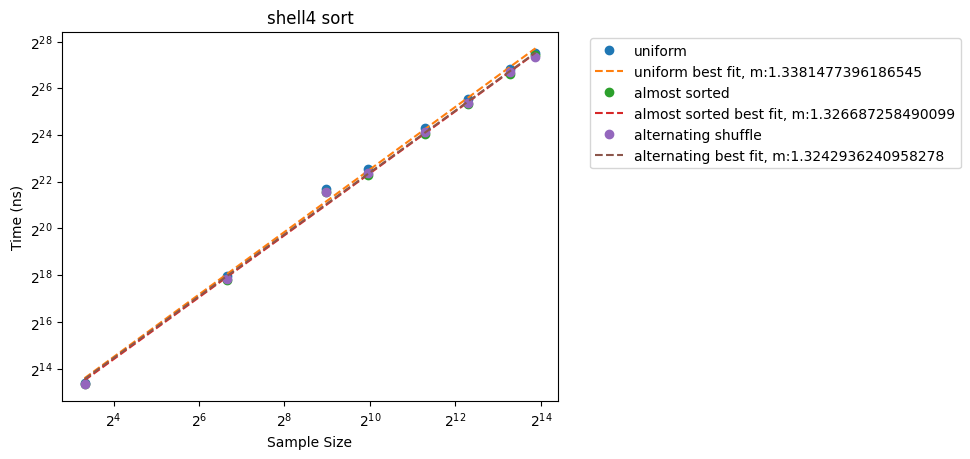
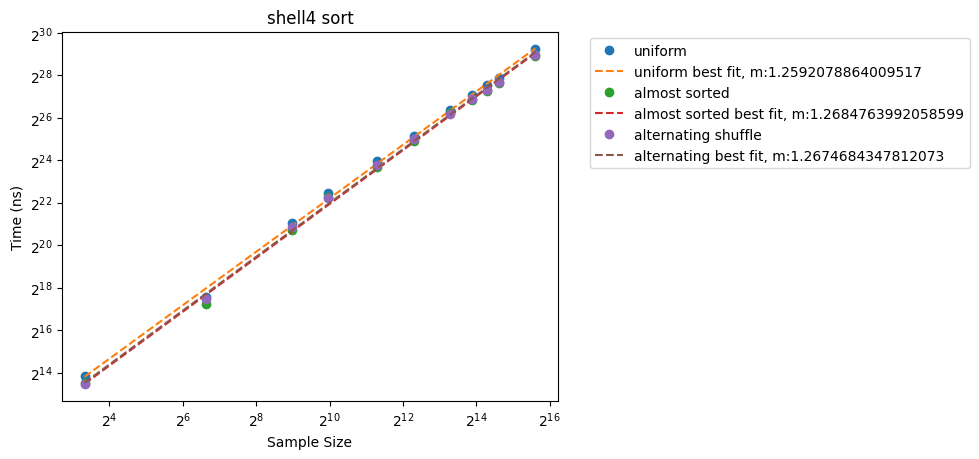
update

diff --git a/src/components/Navbar/Navlist.svelte b/src/components/Navbar/Navlist.svelte
@@ -3,8 +3,10 @@
 	import { onMount } from "svelte";
 	import { AA_Old_Code } from "../../data/AA_Old_Code.js";
 import { CS162_notes1 } from "../../data/CS162_notes1.js";
+import { CS165_P1_Report } from "../../data/CS165_P1_Report.js";
 import { CS165_prjct1 } from "../../data/CS165_prjct1.js";
 import { Testing } from "../../data/Testing.js";
+import { Cs121-quiz1 } from "../../data/Cs121-quiz1.js";
 import { Cs165_graphs } from "../../data/Cs165_graphs.js";
 import { Inf131_notes } from "../../data/Inf131_notes.js";
 	
@@ -14,7 +16,7 @@ import { Inf131_notes } from "../../data/Inf131_notes.js";
 	let headers: string[] = [];
 	onMount(() => {
 		switch (page.toLowerCase()) {
-			case 'aa_old_code': headers=AA_Old_Code; break;case 'cs162_notes1': headers=CS162_notes1; break;case 'cs165_prjct1': headers=CS165_prjct1; break;case 'testing': headers=Testing; break;case 'cs165_graphs': headers=Cs165_graphs; break;case 'inf131_notes': headers=Inf131_notes; break;
+			case 'aa_old_code': headers=AA_Old_Code; break;case 'cs162_notes1': headers=CS162_notes1; break;case 'cs165_p1_report': headers=CS165_P1_Report; break;case 'cs165_prjct1': headers=CS165_prjct1; break;case 'testing': headers=Testing; break;case 'cs121-quiz1': headers=Cs121-quiz1; break;case 'cs165_graphs': headers=Cs165_graphs; break;case 'inf131_notes': headers=Inf131_notes; break;
 			default:
 				headers = [];
 				break;

diff --git a/src/components/Navbar/HomeNav.svelte b/src/components/Navbar/HomeNav.svelte
@@ -1,7 +1,7 @@
 
 	<script>
 	import List from "./List.svelte";
-	const routes = ["AA_Old_Code", "CS162_notes1", "CS165_prjct1", "Testing", "cs165_graphs", "inf131_notes"];
+	const routes = ["AA_Old_Code", "CS162_notes1", "CS165_P1_Report", "CS165_prjct1", "Testing", "cs121-quiz1", "cs165_graphs", "inf131_notes"];
 	</script>
 	<List lists={routes} />
 	

diff --git a/src/data/CS165_P1_Report.js b/src/data/CS165_P1_Report.js
@@ -1,0 +1,7 @@
+export const CS165_P1_Report = [
+  "**4. Results and Analysis**",
+  "**4.1 Insertion Sort**",
+  "**4.2 Shellsort Variants**",
+  "**4.3 Tim-sort**",
+  "**Summary of Experimental Slopes**",
+];

diff --git a/src/data/Cs121-quiz1.js b/src/data/Cs121-quiz1.js
@@ -1,0 +1,2 @@
+export const Cs121-quiz1 = [
+];

diff --git a/src/pages/ducks/CS165_P1_Report.md b/src/pages/ducks/CS165_P1_Report.md
@@ -1,0 +1,108 @@
+---
+layout: "../../layouts/LayoutSingle.astro"
+title: CS165_P1_Report
+---
+
+Awesome — based on all your provided plots and our outline, here’s a **draft of the Results & Analysis section** for your report:
+
+---
+
+# **4. Results and Analysis**
+
+In this section, we present and analyze the empirical performance of the implemented sorting algorithms. Each algorithm was tested on three different types of input distributions: uniformly random permutations, almost-sorted permutations, and two alternating runs permutations. The results are plotted on log-log scales, and the slope of a best-fit line was determined to estimate the asymptotic behavior experimentally.
+
+---
+
+## **4.1 Insertion Sort**
+
+![alt](insertion.png)
+Insertion sort exhibited very different behavior depending on the input distribution:
+
+- **Uniform random input:** Slope ≈ **1.888**, indicating near-quadratic \( O(n^2) \) behavior, as expected for random data.
+- **Almost sorted input:** Slope ≈ **1.077**, showing near-linear \( O(n) \) performance due to fewer necessary swaps.
+- **Alternating runs input:** Slope ≈ **1.899**, again suggesting nearly quadratic behavior similar to the uniform case.
+
+Insertion sort is highly sensitive to initial order: it performs very efficiently on nearly sorted inputs but poorly on disordered ones. These results are consistent with theoretical expectations.
+
+---
+
+## **4.2 Shellsort Variants**
+
+### **Shell1 Sort (Original Shell sequence)**
+
+![alt](shell1.png)
+
+- Slopes: **1.221** (uniform), **1.131** (almost sorted), **1.132** (alternating).
+- All three distributions show similar, improved performance over insertion sort.
+- Running time grows slightly faster than linear but significantly slower than quadratic.
+
+Shell1 improves runtime across all distributions, moderately insensitive to input ordering.
+
+---
+
+### **Shell2 Sort (Sequence: 2[n/2^(k+1)] + 1)**
+
+![alt](shell2.png)
+
+- Slopes: **1.901** (uniform), **1.460** (almost sorted), **1.862** (alternating).
+- Performance worsened compared to Shell1, particularly on uniform and alternating data.
+
+Shell2's sequence results in a higher time complexity closer to \( O(n^2) \) on random and structured inputs, making it less efficient than other Shellsort variants.
+
+---
+
+### **Shell3 Sort (A083318: 2k + 1 Sequence)**
+
+![alt](shell3.png)
+
+- Slopes: **1.610** (uniform), **1.035** (almost sorted), **1.525** (alternating).
+- Almost sorted inputs yield near-linear performance, but uniform and alternating are still closer to quadratic.
+
+Shell3 is sensitive to the input distribution. It excels with near-sorted data but less so with random or structured alternating data.
+
+---
+
+### **Shell4 Sort (A003586: Powers of 2 and 3 Sequence)**
+
+![alt](shell4.png)
+
+- Slopes: **1.259** (uniform), **1.269** (almost sorted), **1.267** (alternating).
+- All input types yield very similar slopes (~1.26).
+
+Shell4 is remarkably stable across input distributions. This makes it a reliable choice if input characteristics are unknown in advance.
+
+---
+
+### **Shell5 Sort (A003462: (3^k - 1) / 2 Sequence)**
+
+![alt](shell5.png)
+
+- Slopes: **1.207** (uniform), **1.119** (almost sorted), **1.116** (alternating).
+- Lower slopes across all distributions, close to linear behavior.
+
+Shell5 is the most efficient Shellsort variant tested. It maintains low complexity regardless of input type, suggesting a highly optimized gap sequence.
+
+---
+
+## **4.3 Tim-sort**
+
+![alt](tim.png)
+
+- Slopes: **1.176** (uniform), **0.952** (almost sorted), **0.911** (alternating).
+- Sublinear slope observed for almost sorted and alternating data.
+
+Tim-sort adapts very efficiently to structured data, which aligns with its design to exploit runs in the input. It outperforms Shellsort variants and insertion sort particularly on almost-sorted and alternating runs inputs.
+
+---
+
+# **Summary of Experimental Slopes**
+
+| Algorithm      | Uniform Slope | Almost Sorted Slope | Alternating Slope |
+| :------------- | :------------ | :------------------ | :---------------- |
+| Insertion Sort | 1.888         | 1.077               | 1.899             |
+| Shell1 Sort    | 1.221         | 1.131               | 1.132             |
+| Shell2 Sort    | 1.901         | 1.460               | 1.862             |
+| Shell3 Sort    | 1.610         | 1.035               | 1.525             |
+| Shell4 Sort    | 1.259         | 1.269               | 1.267             |
+| Shell5 Sort    | 1.207         | 1.119               | 1.116             |
+| Tim-sort       | 1.176         | 0.952               | 0.911             |

diff --git a/src/pages/ducks/cs121-quiz1.md b/src/pages/ducks/cs121-quiz1.md
@@ -1,0 +1,65 @@
+
+---
+layout: "../../layouts/LayoutSingle.astro"
+title: cs121-quiz1
+---
+	
+# Quiz 1
+
+1. Information retrival
+    - Field concerned with the structure analysis organization storage searching and retrieval of infromation
+2. DB vs Search Engines
+"find accounts whose balance is greater than 100"
+- Well structured and will defined
+- Not just text but numbers 
+- Requires use of formal lang and logic 
+3. Searching 
+- Vague, informal/adhoc queries/ requires engine to infer meaning of words and sentences
+
+# Retrieval Models
+- Conceptual designs of waht to pay attention to when matchin a query and a document
+- Good retrieval model: find docs relevant to the person who submitted the query
+- basis for ranking algos
+
+# Classic IR Assumptions
+- Corpus: fixed doc collection
+- Goal: retrieve info content relevant to the needed info
+
+# IR Goal
+- Relegance: query Q stored in document D -> exists score a R(Q,D)
+- Maximize R(Q,D): context is ognored, user is ignored, corpus is static and centralized
+
+# Web IR
+- Web cant store any centralized memory
+- Web needs to update constantl
+- There is adversarial info to avoid
+- One interface for hugely diverent needs 
+
+# Web Search Engines 
+- Must crawl tera to peta bytes of pages and provide subsecond repsonses o
+
+# Text Transformation
+- Parser = tokenzier + structure
+- stopping: removing filler words
+- stemming: grouping similar words
+- link extraction and anaalysis: how popuilar a certain link is 
+- info extraction: text structure
+- classifier: topic, contentnon content, spam
+
+# Index Creation
+- Statistics
+- Term weighting: how important a document is 
+- Index inversion: doc -> term -> term -> doc
+- Index distribution: essential for large indexes
+
+# Ranking
+- Relevance score: how well doc matches query
+- Performance optimization: decrease response time
+- Distribution: query broker, allocate queries to different processors
+
+# Evaluation
+- Loggin: improves search egine in the long run
+- Ranking analysis: considering the user behavior, se analyzes if the ranking heuristics work well 
+- Performance analysis: Huimans expect fast answers so the search engine is monitored to improve performance in the long run 
+
+

diff --git a/src/pages/ducks/Testing.md b/src/pages/ducks/Testing.md
@@ -1,6 +1,4 @@
-
 ---
 layout: "../../layouts/LayoutSingle.astro"
 title: Testing
 ---
-	
